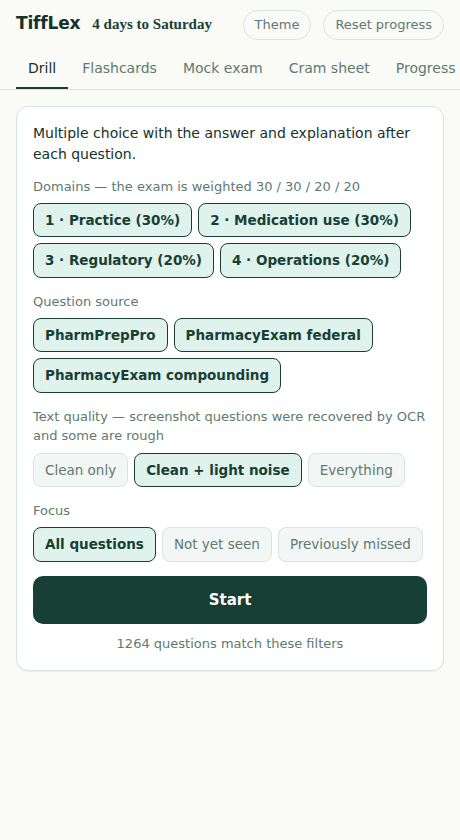
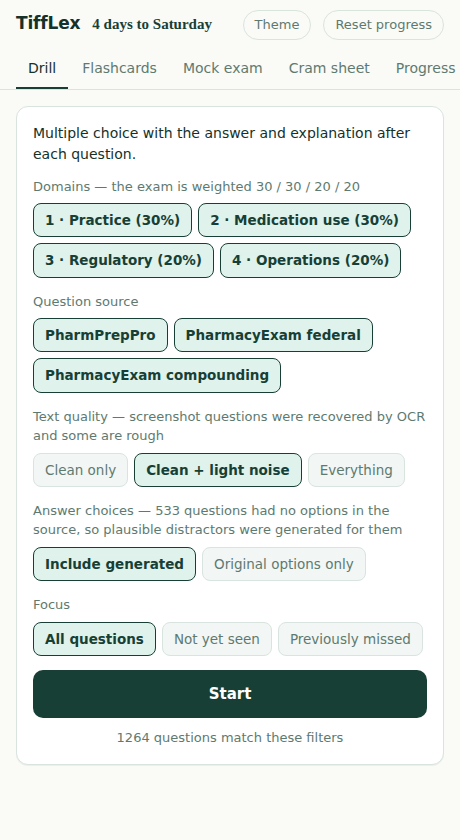
Add files via upload

Changed region(s): [[0.0609, 0.5881, 0.9435, 0.8976]]

diff --git a/index.html b/index.html
@@ -205,7 +205,7 @@ const WEIGHT = {1:30,2:30,3:20,4:20};
 const SRC = {PPP:"PharmPrepPro",PE:"PharmacyExam federal",PECOMP:"PharmacyExam compounding"};
 const KEY = "umpje.v2";
 
-let S = {h:{}, dom:[1,2,3,4], src:["PPP","PE","PECOMP"], qual:1, focus:"all"};
+let S = {h:{}, dom:[1,2,3,4], src:["PPP","PE","PECOMP"], qual:1, focus:"all", gen:1};
 try{const r=localStorage.getItem(KEY); if(r) S=Object.assign(S,JSON.parse(r));}catch(e){}
 const save=()=>{try{localStorage.setItem(KEY,JSON.stringify(S))}catch(e){}};
 const hist=id=>S.h[id]||(S.h[id]={r:0,w:0,g:0});
@@ -223,6 +223,7 @@ $("#days").innerHTML = "<b>"+days()+"</b>";
 function pool(needOpts){
   return BANK.filter(q=>{
     if(needOpts && !q.o) return false;
+    if(needOpts && !S.gen && q.g) return false;
     if(!S.dom.includes(q.d)) return false;
     if(!S.src.includes(q.s)) return false;
     if(q.v > S.qual) return false;
@@ -246,6 +247,8 @@ function filters(){
     chipRow("Question source", Object.entries(SRC).map(([k,v])=>[k,v]), v=>S.src.includes(v)) +
     chipRow("Text quality — screenshot questions were recovered by OCR and some are rough",
       [[0,"Clean only"],[1,"Clean + light noise"],[2,"Everything"]], v=>S.qual==+v) +
+    chipRow("Answer choices — 533 questions had no options in the source, so plausible distractors were generated for them",
+      [[1,"Include generated"],[0,"Original options only"]], v=>S.gen==+v) +
     chipRow("Focus", [["all","All questions"],["unseen","Not yet seen"],["missed","Previously missed"]], v=>S.focus===v);
 }
 function wireFilters(root){
@@ -255,6 +258,7 @@ function wireFilters(root){
       if(idx===0){const n=+v; S.dom=S.dom.includes(n)?S.dom.filter(x=>x!==n):S.dom.concat(n); if(!S.dom.length)S.dom=[n];}
       else if(idx===1){S.src=S.src.includes(v)?S.src.filter(x=>x!==v):S.src.concat(v); if(!S.src.length)S.src=[v];}
       else if(idx===2){S.qual=+v}
+      else if(idx===3){S.gen=+v}
       else {S.focus=v}
       save(); render();
     });
